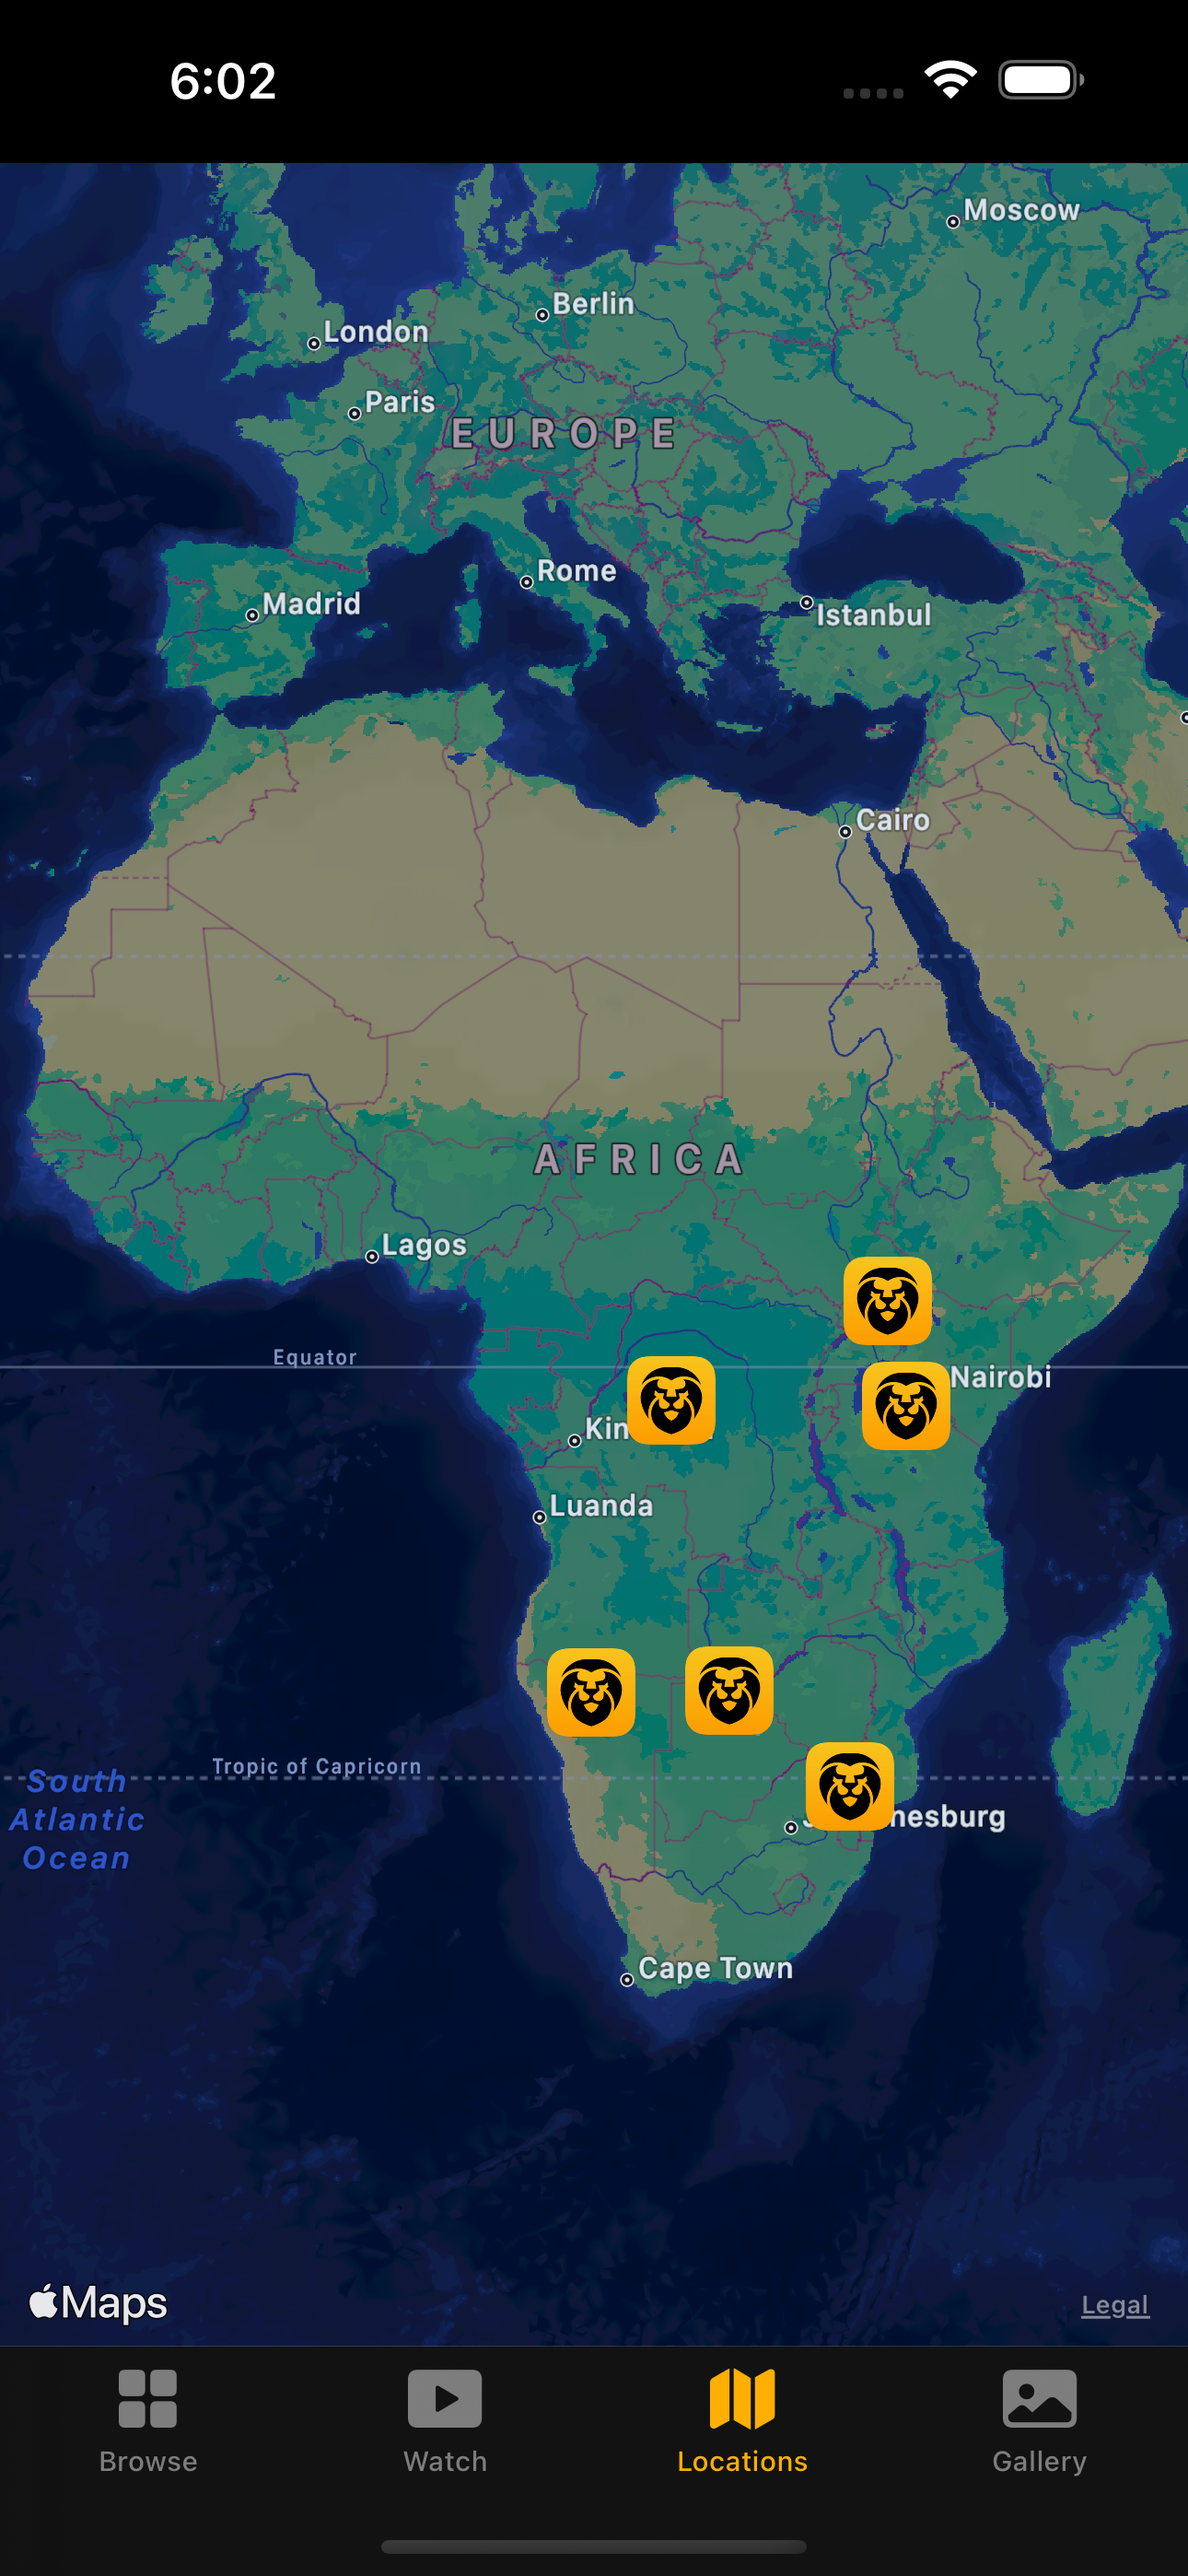
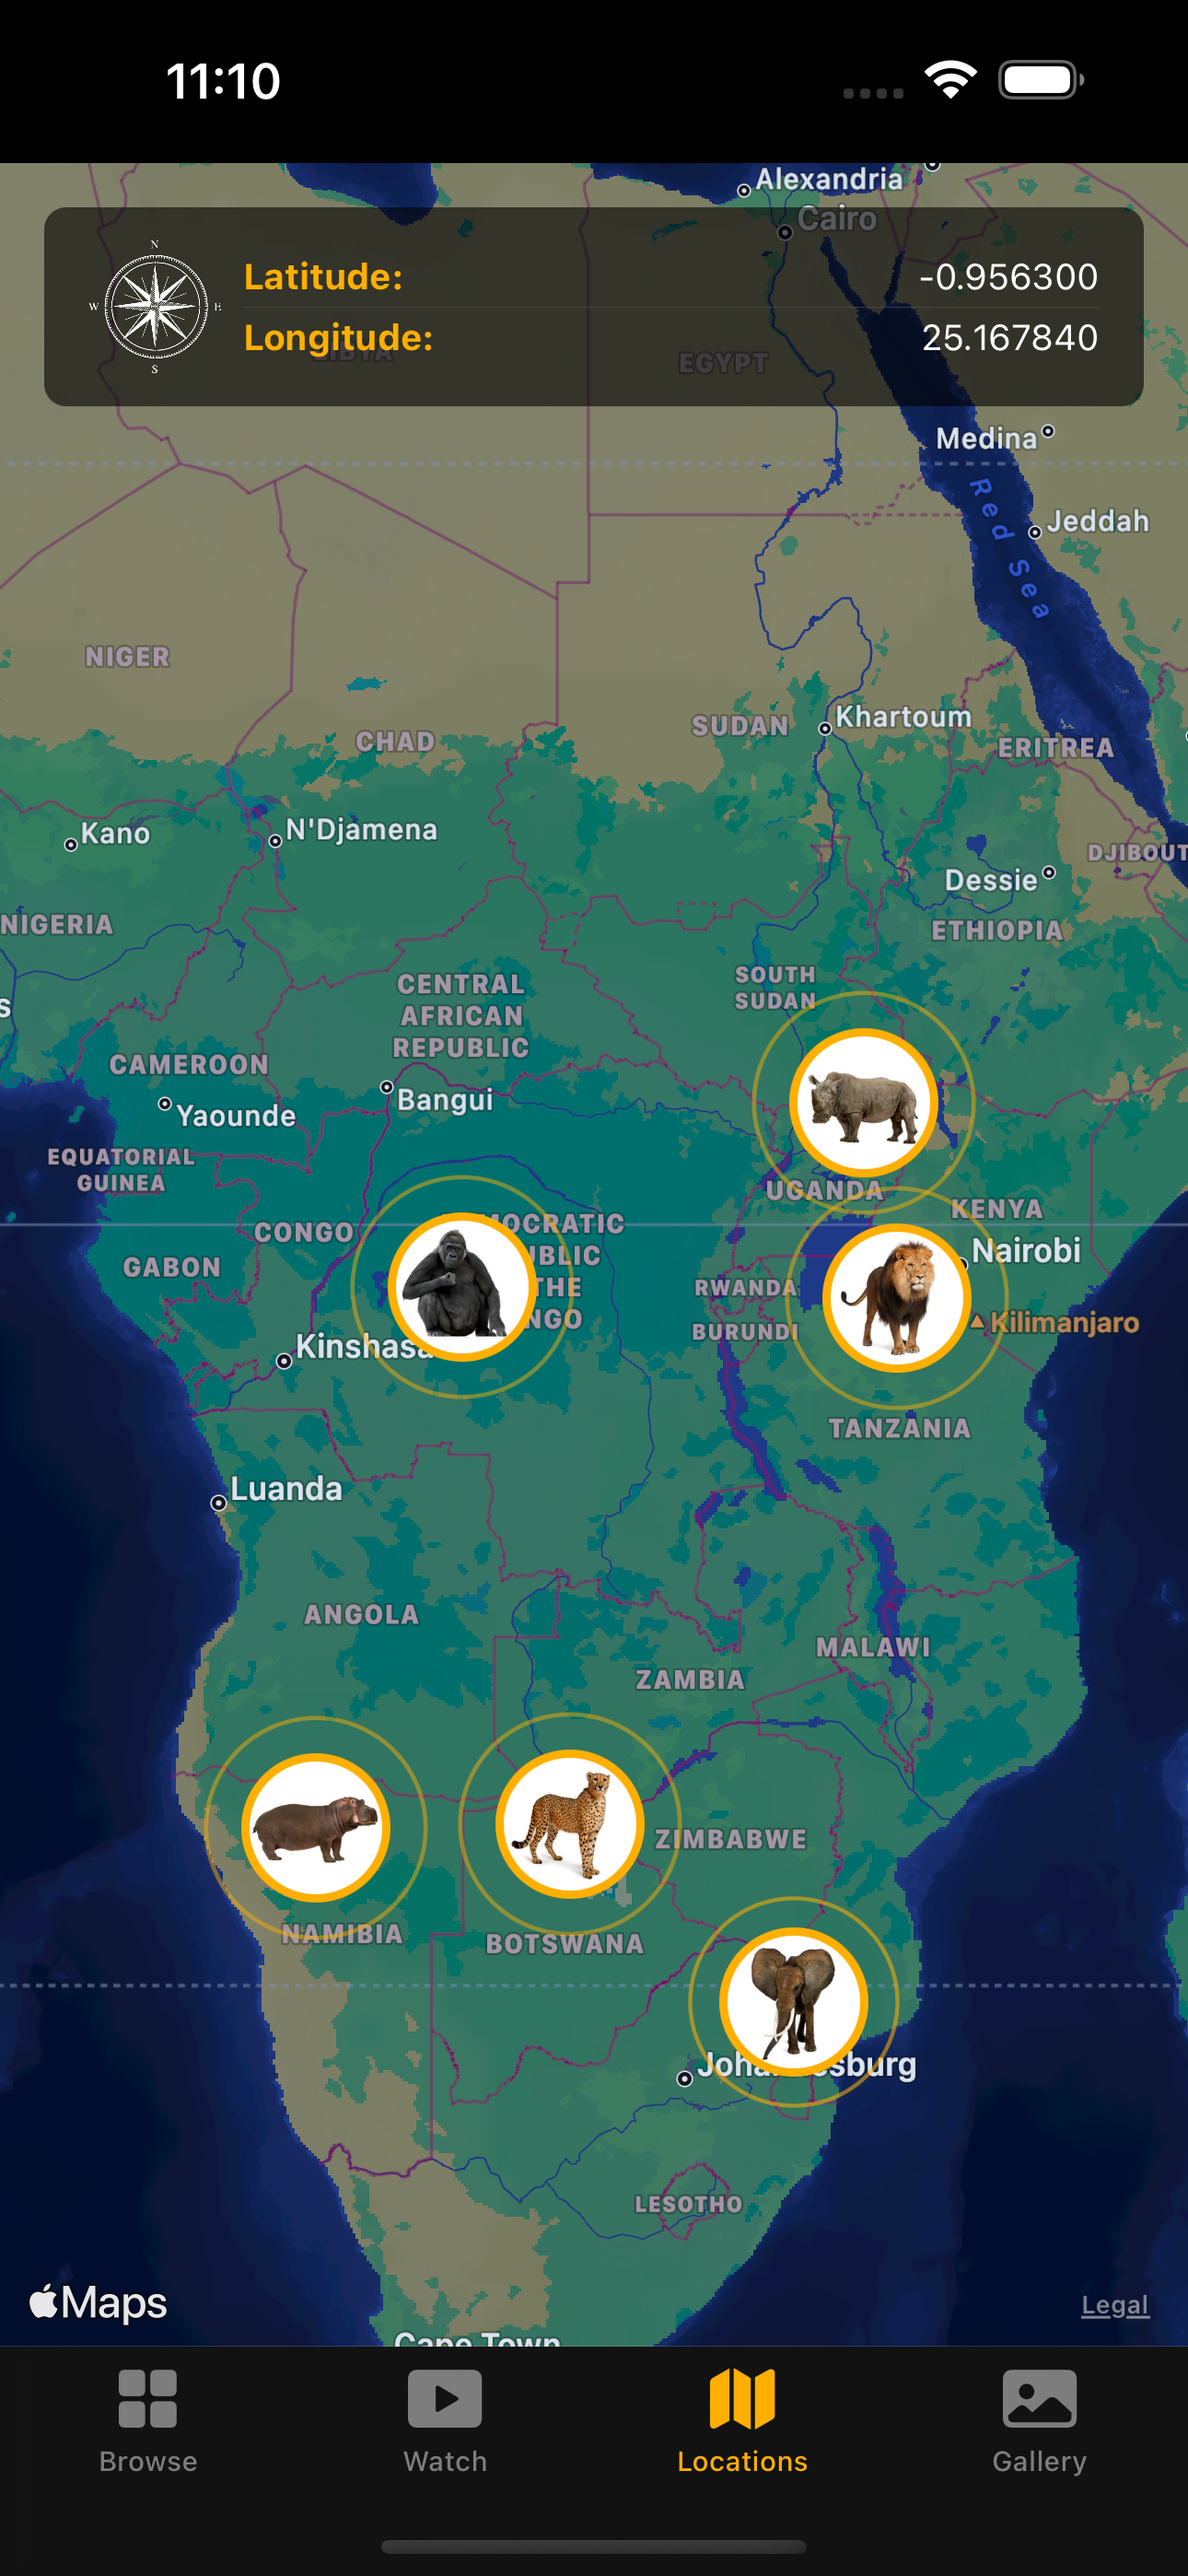
Locations Page added

diff --git a/Africa_Credo/App/MapView.swift b/Africa_Credo/App/MapView.swift
@@ -34,13 +34,60 @@ struct MapView: View {
             //MapMarker(coordinate: item.location, tint: .accentColor)
             
             //(C) CUSTOM BASIC ANNOTATION (it could be interactive)
+//            MapAnnotation(coordinate: item.location) {
+//                Image("logo")
+//                    .resizable()
+//                    .scaledToFit()
+//                    .frame(width: 32, height: 32, alignment: .center)
+//            }//MapAnnotation
+            
+            //(D) CUSTOM ADVANCED ANNOTATION (it could be interactive)
             MapAnnotation(coordinate: item.location) {
-                Image("logo")
+                MapAnnotationView(location: item)
+            }
+        })//MAP
+        .overlay(
+            HStack{
+                Image("compass")
                     .resizable()
                     .scaledToFit()
-                    .frame(width: 32, height: 32, alignment: .center)
-            }//MapAnnotation
-        })
+                    .frame(width: 48, height: 48, alignment: .center)
+                
+                VStack(alignment: .leading, spacing: 3) {
+                    HStack{
+                        Text("Latitude:")
+                            .font(.footnote)
+                            .fontWeight(.bold)
+                            .foregroundColor(.accentColor)
+                        Spacer()
+                        Text("\(region.center.latitude)")
+                            .font(.footnote)
+                            .foregroundColor(.white)
+                    }//HStack
+                    Divider()
+                    HStack{
+                        Text("Longitude:")
+                            .font(.footnote)
+                            .fontWeight(.bold)
+                            .foregroundColor(.accentColor)
+                        Spacer()
+                        Text("\(region.center.longitude)")
+                            .font(.footnote)
+                            .foregroundColor(.white)
+                    }//HStack
+                }
+            }//HStack
+                .padding(.vertical, 12)
+                .padding(.horizontal, 16)
+                .background(
+                    Color.black
+                        .cornerRadius(8)
+                        .opacity(0.6)
+                )
+                .padding(), alignment: .top
+            
+        )
+        
     }
 }
 

diff --git a/Africa_Credo/View/MapAnnotationView.swift b/Africa_Credo/View/MapAnnotationView.swift
@@ -1,0 +1,49 @@
+//
+//  MapAnnotationView.swift
+//  Africa_Credo
+//
+//  Created by Mykola Matsko on 13.11.2022.
+//
+
+import SwiftUI
+
+struct MapAnnotationView: View {
+    
+    
+    @State private var animation: Double = 0.0
+    var location: NationalParkLocation
+    
+    var body: some View {
+        ZStack {
+            Circle()
+                .fill(Color.accentColor)
+                .frame(width: 54, height: 54, alignment: .center)
+            
+            Circle()
+                .stroke(Color.accentColor)
+                .frame(width: 52, height: 52, alignment: .center)
+                .scaleEffect(1 + CGFloat(animation))
+                .opacity(1 - animation)
+            
+            Image(location.image)
+                .resizable()
+                .scaledToFit()
+                .frame(width: 48, height: 48, alignment: .center)
+            .clipShape(Circle())
+        }//ZStack
+        .onAppear{
+            withAnimation(Animation.easeInOut(duration: 2).repeatForever(autoreverses: false)) {
+                animation = 1
+            }
+        }
+    }
+}
+
+struct MapAnnotationView_Previews: PreviewProvider {
+    static var locations: [NationalParkLocation] = Bundle.main.decode("locations.json")
+    static var previews: some View {
+        MapAnnotationView(location: locations[0])
+            .previewLayout(.sizeThatFits)
+            .padding()
+    }
+}
